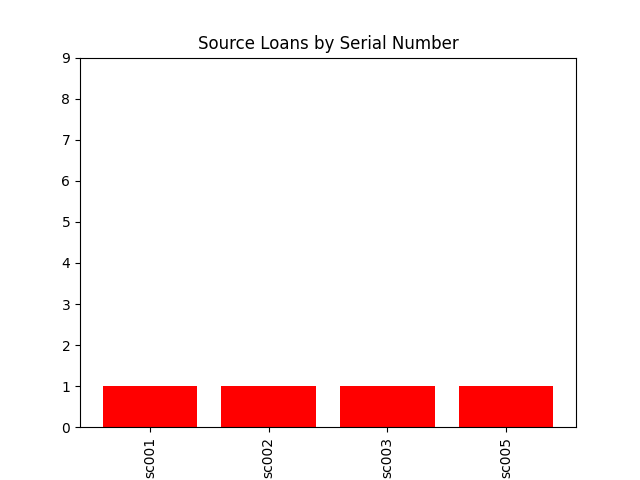
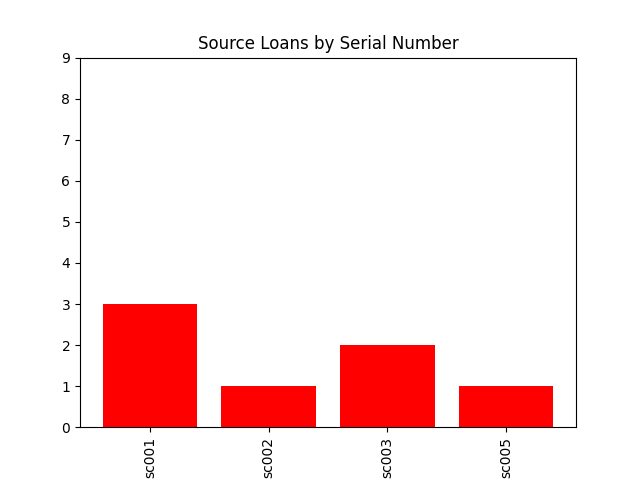
Fix bug counting number of user logins

Changed region(s): [[0.1562, 0.625, 0.3125, 0.8125], [0.5312, 0.7188, 0.6875, 0.8125]]

diff --git a/app.py b/app.py
@@ -188,58 +188,59 @@ def usage_report():
     # Determine source usage by serial number
     source_loans = list(
         mongo.db.source_history.find().distinct("serial_number"))
+
     loans_num = []
     for loans in source_loans:
         loans_num.append(mongo.db.source_history.count_documents(
             {"serial_number": loans}))
 
-        try:
-            # generate plots
-            plt.bar(source_types, source_num, color='green')
-            plt.yticks(np.arange(0, 5, 1))
-            plt.title("Sources by Isotope")
-            plt.savefig('static/assets/sourceUsed.png')
-            plt.close()
+    try:
+        # generate plots
+        plt.bar(source_types, source_num, color='green')
+        plt.yticks(np.arange(0, 5, 1))
+        plt.title("Sources by Isotope")
+        plt.savefig('static/assets/sourceUsed.png')
+        plt.close()
 
-            plt.bar(logins, login_num, color='blue')
-            plt.title("User Logins by Day")
-            plt.yticks(np.arange(0, 20, 1))
-            plt.savefig('static/assets/loginHistory.png')
-            plt.close()
+        plt.bar(logins, login_num, color='blue')
+        plt.title("User Logins by Day")
+        plt.yticks(np.arange(0, 20, 1))
+        plt.savefig('static/assets/loginHistory.png')
+        plt.close()
 
-            plt.bar(source_loans, loans_num, color='red')
-            plt.yticks(np.arange(0, 10, 1))
-            plt.xticks(rotation='vertical')
-            plt.title("Source Loans by Serial Number")
-            plt.savefig('static/assets/loanHistory.png')
-            plt.close()
+        plt.bar(source_loans, loans_num, color='red')
+        plt.yticks(np.arange(0, 10, 1))
+        plt.xticks(rotation='vertical')
+        plt.title("Source Loans by Serial Number")
+        plt.savefig('static/assets/loanHistory.png')
+        plt.close()
 
-        except Exception:
-            flash("Database error, unable to generate new reports")
+    except Exception:
+        flash("Database error, unable to generate new reports")
 
-        # Get all source loan histories
-        source_histories = list(mongo.db.source_history.find())
+    # Get all source loan histories
+    source_histories = list(mongo.db.source_history.find())
 
-        # Get the users first and last name and append to the source list to
-        # avoid email being shown in the table
-        for source_history in source_histories:
-            if source_history["user"]:
-                user = (mongo.db.users.find_one(
-                    {"email": source_history["user"]}))
-                # Check that the user still exists
-                if user:
-                    source_history.update({"first": user["first"]})
-                    source_history.update({"last": user["last"]})
-                else:
-                    source_history.update({"first": ""})
-                    source_history.update({"last": ""})
+    # Get the users first and last name and append to the source list to
+    # avoid email being shown in the table
+    for source_history in source_histories:
+        if source_history["user"]:
+            user = (mongo.db.users.find_one(
+                {"email": source_history["user"]}))
+            # Check that the user still exists
+            if user:
+                source_history.update({"first": user["first"]})
+                source_history.update({"last": user["last"]})
+            else:
+                source_history.update({"first": ""})
+                source_history.update({"last": ""})
 
-        return render_template(
-            "usageReport.html", name="usage plot",
-            url1="static/assets/sourceUsed.png",
-            url2="static/assets/loginHistory.png",
-            url3="static/assets/loanHistory.png",
-            source_histories=source_histories)
+    return render_template(
+        "usageReport.html", name="usage plot",
+        url1="static/assets/sourceUsed.png",
+        url2="static/assets/loginHistory.png",
+        url3="static/assets/loanHistory.png",
+        source_histories=source_histories)
 
 # -------------------------Source Request Management--------
 
@@ -777,7 +778,7 @@ def req_source_conf(source_serial_no):
 
     # Update the source record
     submit = {"requested": "true", "user": session["email"]}
-    mongo.db.sources.update(
+    mongo.db.sources.update_one(
         {"serial_number": source_serial_no}, {"$set": submit})
 
     flash("Source has been requested - please\
@@ -1188,7 +1189,7 @@ def faculty_link():
     #
     # Handles href to dummy Physics faculty web site
     #
-    
+
     return render_template("physicsFaculty.html")
 
 

diff --git a/TEST.md b/TEST.md
@@ -536,6 +536,27 @@ The following test steps setup an initial user with admin rights, isotopes and s
 
     - **Test Method**
 
+        - Login as **joe.black@anyuniversity.com** with password **new2new2**
+
+        - Navigate to **Inventory** and select **Usage Report**
+
+        - Confirm how many time scource with serial number sc001 has been loan out
+
+        - Navigate to **Source Request**
+
+        - In the search box type **Disk**
+
+        - Select source **sc001** and click on **Request**
+
+        - Navigate to **Inventory** and the **Approve Request**
+
+        - Click on **Aprove**
+
+        - Navigate to **Inventory** and select **Usage Report**
+
+        - Confirm how many time scource with serial number sc001 has been loan out
+ 
+
     - **Expected Outcome**
 
     - **Tested Outcome**
@@ -544,27 +565,75 @@ The following test steps setup an initial user with admin rights, isotopes and s
 
     - **Test Method**
 
+        - Login as **joe.black@anyuniversity.com** with password **new2new2**
+
+        - Navigate to **Inventory** and select **Usage Report**
+
+        - Confirm the User Logins by day
+
+        - logout
+
+        - login as **fred.hoyle@anyuniversity.com** and password **new2new2**
+
+        - logout
+
+        - Login as **joe.black@anyuniversity.com** with password **new2new2**
+
+        - Navigate to **Inventory** and select **Usage Report**
+
+        - Confirm the User Logins by day has increased by 2   
+
     - **Expected Outcome**
 
+        - Logins per day has increased by 2
+
     - **Tested Outcome**
+
+        - Logins per day has increased by 2: 
+        
+            ![High Screen Width](testimg/userlogin1.png)
+
+            ![High Screen Width](testimg/userlogin2.png) 
+
 
 27. As a scientist, I want to see information presented in a tabular form where possible so that I can spot patterns in the data.
 
-    - **Test Method**
-
-    - **Expected Outcome**
-
-    - **Tested Outcome**
+    - Tested in 28 
 
 28. As a user or admin user, I may want to view information on small screen width devices which do not lend themselves to displaying data in tabular form.
 
     - **Test Method**
 
+        - Login as **joe.black@anyuniversity.com** with password **new2new2**
+
+        - Navigate to **Inventory** and select **Inventory List**
+
+        - Using the browser tool kit set the screen size to 1024px
+
+        - Confirm that the inventory is displayed in tabular form
+
+        - Reduce the screen width to 760px
+
+        - Confirm that the same inventory is displayed as a collapsible.
+
+        - Navigate to **User Access** and repeat the above steps
+
+        - Navigate to **Settings** and the **Isotopes** and repeat the above steps    
+
     - **Expected Outcome**
+
+        - Information displayed in a tabular form on a screen widths 1024px and up is displayed as a collapsible on lower screen widths.   
 
     - **Tested Outcome**
 
-29. As a user or admin user, I want to confirm any delete action that results in the permanet removal of information from the data base.
+        - Source data displayed both in tabular form and as a collapsible: 
+        
+            ![High Screen Width](testimg/highScreenWidth.png)
+
+            ![High Screen Width](testimg/lowScreenWidth.png) 
+
+
+29. As a user or admin user, I want to confirm any delete action that results in the permanent removal of information from the data base.
 
     - **Test Method**
 
